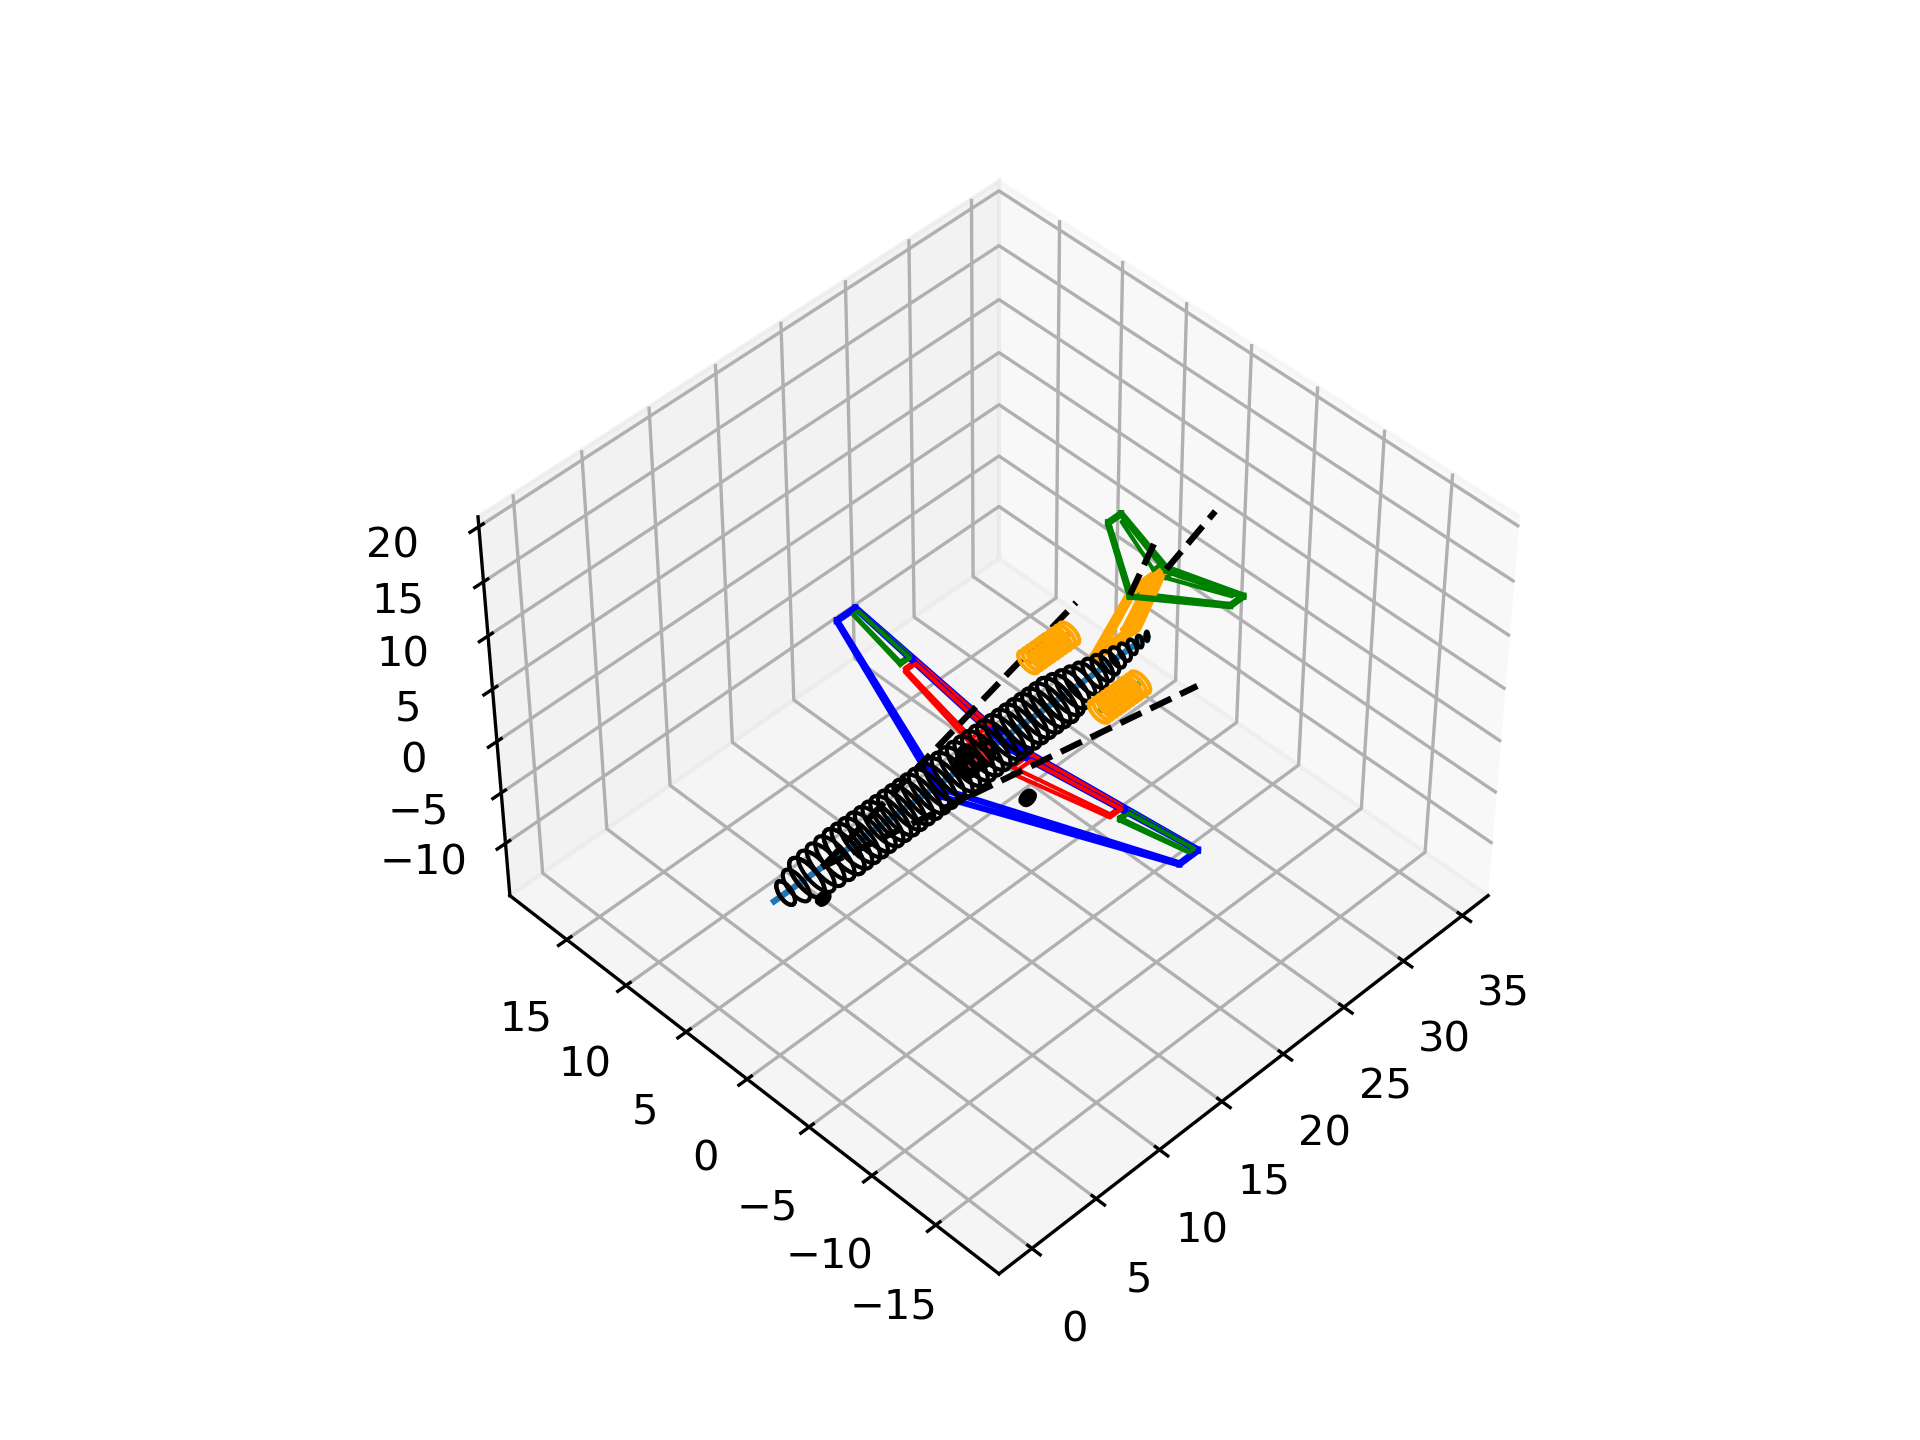
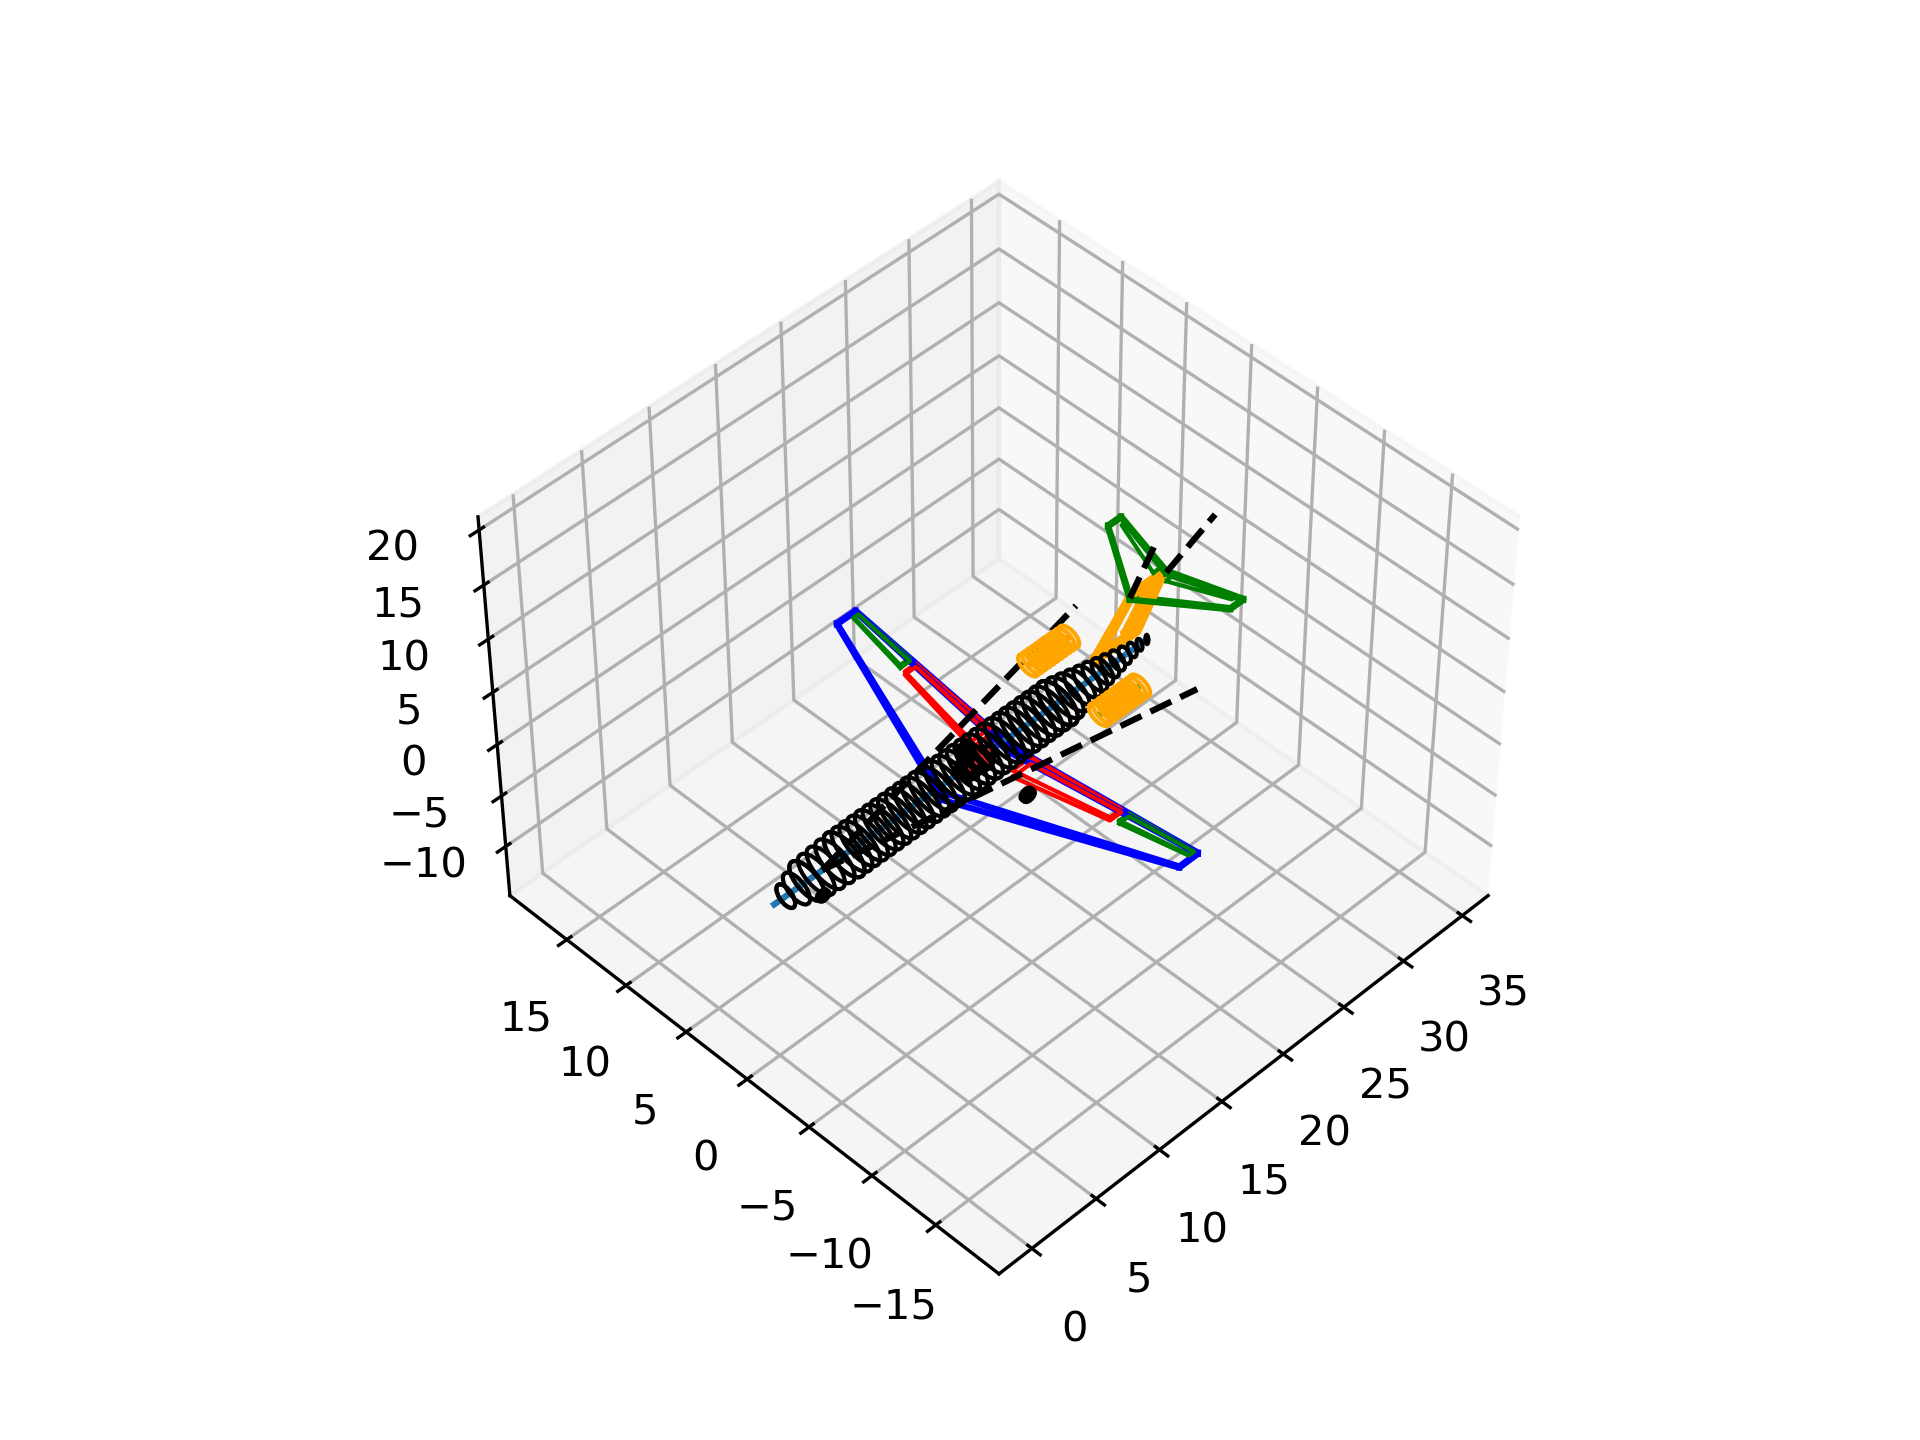
Adição da versão da aeronave com a correção do peso

Changed region(s): [[0.2188, 0.125, 0.7812, 0.625], [0.1875, 0.3438, 0.2188, 0.5]]

diff --git a/designTool.py b/designTool.py
@@ -3415,7 +3415,7 @@ def standard_airplane(name="fokker100"):
             "x_nlg": 3.64,  # Longitudinal position of the nose landing gear [m]
             "x_mlg": 17.10,  # Longitudinal position of the main landing gear [m]
             "y_mlg": 2.52,  # Lateral position of the main landing gear [m]
-            "z_lg": -3.05,  # Vertical position of the landing gear [m]
+            "z_lg": -2.45,  # Vertical position of the landing gear [m]
             "x_tailstrike": 22,  # Longitudinal position of critical tailstrike point [m]
             "z_tailstrike": -0.64,  # Vertical position of critical tailstrike point [m]
             "c_tank_c_w": 0.4,  # Fraction of the wing chord occupied by the fuel tank
@@ -3450,8 +3450,109 @@ def standard_airplane(name="fokker100"):
             "xcg_crew": 2.5,  # Longitudinal position of the Crew center of gravity [m]
             "rho_f": 804,  # Fuel density kg/m3 (This is Jet A-1)
             #"W0_guess": 36740 * gravity,  # Guess for MTOW
-        }
-
+        }        
+    
+    elif name == "F70_XerifeEdition_2":
+        # COMENTÁRIOS
         
-
+        # PROCESSO DE OTIMIZAÇÃO/AJUSTE
+            # Como a planilha "PrestoCabin" utiliza os valores estimados para o alcance e o MTOW
+            # da aeronave, é necessário fazer um processo iterativo com o código/análises
+            
+        # COMENTÁRRIOS SOBRE COMO VALORES DE PARÂMETROS SÃO AJUSTADOS
+            # Na planilha "PrestoCabin", os valores atuais de MTOW e de alcance são de 36000 kg e 3900 km
+            # xcg_payload <- adaptação do valor do Fokker 100 para o nosso comprimento de fuselagem
+            # L_f (Fuselage length [m]) <- Valor retirado da planilha PrestoCabin (ln 372)
+            # D_f (Fuselage diameter [m]) <- Valor retirado da planilha PrestoCabin (ln 136)
+            
+        # ITENS QUE PRECISAM SER CORRIGIDOS OU APRIMORADOS
+            # O comprimento da fuselagem diminuiu em comparação com o F70 original (2,53 m a menos). 
+            # Por conta disso, algumas medidas e posicionamentos longitudinais precisam ser modificados
+            # (posição da asa, posição das empenagens, posição do motor, posição do trem de pouso 
+            # principal, comprimento da nacelle do motor)
+            
+        
+        airplane = {
+            "type": "transport",  # Can be 'transport', 'fighter', or 'general'
+            "S_w": 92,  # Wing area [m2]
+            "AR_w": 8.0,  # Wing aspect ratio
+            "taper_w": 0.28,  # Wing taper ratio
+            "sweep_w": 16.5 * np.pi / 180,  # Wing sweep [rad]
+            "dihedral_w": 3.3 * np.pi / 180,  # Wing dihedral [rad]
+            "xr_w": 12.82,  # Longitudinal position of the wing (with respect to the fuselage nose) [m]
+            "zr_w": -1.01,  # Vertical position of the wing (with respect to the fuselage nose) [m]
+            "tcr_w": 0.140,  # t/c of the root section of the wing
+            "tct_w": 0.075,  # t/c of the tip section of the wing
+            "Cht": 0.78,  # Horizontal tail volume coefficient
+            "Lc_h": 3.7,  # Non-dimensional lever of the horizontal tail (lever/wing_mac)
+            "AR_h": 4.75,  # HT aspect ratio
+            "taper_h": 0.36,  # HT taper ratio
+            "sweep_h": 29.14 * np.pi / 180,  # HT sweep [rad]
+            "dihedral_h": 4.2 * np.pi / 180,  # HT dihedral [rad]
+            "zr_h": 5.2,  # Vertical position of the HT [m]
+            "tcr_h": 0.1,  # t/c of the root section of the HT
+            "tct_h": 0.1,  # t/c of the tip section of the HT
+            "eta_h": 1.0,  # Dynamic pressure factor of the HT
+            "Cvt": 0.05,  # Vertical tail volume coefficient
+            "Lb_v": 0.42,  # Non-dimensional lever of the vertical tail (lever/wing_span)
+            "AR_v": 1.314,  # VT aspect ratio
+            "taper_v": 0.754,  # VT taper ratio
+            "sweep_v": 35.57 * np.pi / 180,  # VT sweep [rad]
+            "zr_v": 3.24/2,  # Vertical position of the VT [m]
+            "tcr_v": 0.1,  # t/c of the root section of the VT
+            "tct_v": 0.1,  # t/c of the tip section of the VT
+            "L_f": 29.27,  # Fuselage length [m] <- Otimizado de acordo com a planilha PrestoCabin (ln 372)
+            "D_f": 3.24,  # Fuselage diameter [m] <- Otimizado de acordo com a planilha PrestoCabin (ln 136)
+            "x_n": 22.5,  # Longitudinal position of the nacelle frontal face [m]
+            "y_n": 2.80,  # Lateral position of the nacelle centerline [m]
+            "z_n": 0.85,  # Vertical position of the nacelle centerline [m]
+            "L_n": 3.27,  # Nacelle length [m]
+            "D_n": 1.64,  # Nacelle diameter [m]
+            "n_engines": 2,  # Number of engines
+            "n_engines_under_wing": 0,  # Number of engines installed under the wing
+            "engine": {
+                "model": "Howe turbofan",  # Check engineTSFC function for options
+                "BPR": 4.9,  # Engine bypass ratio
+                "Cbase": 0.39/ 3600,
+                "weight": 1120*gravity
+            }, # Motor CF34-C5
+            "x_nlg": 3.64,  # Longitudinal position of the nose landing gear [m]
+            "x_mlg": 17.10,  # Longitudinal position of the main landing gear [m]
+            "y_mlg": 2.52,  # Lateral position of the main landing gear [m]
+            "z_lg": -2.45,  # Vertical position of the landing gear [m]
+            "x_tailstrike": 22,  # Longitudinal position of critical tailstrike point [m]
+            "z_tailstrike": -0.64,  # Vertical position of critical tailstrike point [m]
+            "c_tank_c_w": 0.4,  # Fraction of the wing chord occupied by the fuel tank
+            "x_tank_c_w": 0.2,  # Fraction of the wing chord where fuel tank starts
+            "clmax_w": 1.8,  # Maximum lift coefficient of wing airfoil
+            "flap_type": "double slotted",  # Flap type
+            "c_flap_c_wing": 0.30,  # Fraction of the wing chord occupied by flaps
+            "b_flap_b_wing": 0.60,  # Fraction of the wing span occupied by flaps (including fuselage portion)
+            "slat_type": None,  # Slat type
+            "c_slat_c_wing": 0.00,  # Fraction of the wing chord occupied by slats
+            "b_slat_b_wing": 0.00,  # Fraction of the wing span occupied by slats
+            "c_ail_c_wing": 0.27,  # Fraction of the wing chord occupied by aileron
+            "b_ail_b_wing": 0.34,  # Fraction of the wing span occupied by aileron
+            "h_ground": 35.0
+            * ft2m,  # Distance to the ground for ground effect computation [m]
+            "k_exc_drag": 0.03,  # Excrescence drag factor
+            "altitude_takeoff": 0.0,  # Altitude for takeoff computation [m]
+            "distance_takeoff": 1600,  # Required takeoff distance [m]
+            "altitude_landing": 0.0,  # Altitude for landing computation [m]
+            "distance_landing": 1600, # Required landing distance [m] (The actual Fokker100 distance is 1350 m but it is very restrictive compared to the historical regression. Therefore I kept the same TO distance since the aircraft should takeoff and land at the same runway)
+            "MLW_frac": 34400/37527,  # Max Landing Weight / Max Takeoff Weight NAO SEI
+            "altitude_cruise": 11800,  # Cruise altitude [m]
+            "Mach_cruise": 0.76,  # Cruise Mach number
+            "range_cruise": 4100 * 10**3,  # Cruise range [m]
+            "loiter_time": 45 * 60,  # Loiter time [s]
+            "altitude_altcruise": 4572,  # Alternative cruise altitude [m]
+            "Mach_altcruise": 0.4,  # Alternative cruise Mach number
+            "range_altcruise": 200 * nm2m,  # Alternative cruise range [m]
+            "W_payload": (76*97.0688 + 460)*gravity,  # Payload weight [N]
+            "xcg_payload": 12.76,  # Longitudinal position of the Payload center of gravity [m]
+            "W_crew": 408.233 * gravity,  # Crew weight [N]
+            "xcg_crew": 2.5,  # Longitudinal position of the Crew center of gravity [m]
+            "rho_f": 804,  # Fuel density kg/m3 (This is Jet A-1)
+            #"W0_guess": 36740 * gravity,  # Guess for MTOW
+        }
     return airplane

diff --git a/F70_Xerife_Edition_weigths.py b/F70_Xerife_Edition_weigths.py
@@ -8,13 +8,16 @@ import pprint
 
 airplane = dt.standard_airplane("F70_XerifeEdition")
 dt.geometry(airplane)
-
-airplane["range_cruise"] =  4500 * 10**3
-airplane["xr_w"] = 12.82
-airplane["Lc_h"] = 3.7
-airplane["Lb_v"] = 0.42
-airplane["xcg_payload"] = 12.26
-airplane["x_mlg"] = airplane["xr_w"] + 4
+gravity = 9.81
+airplane["W_payload"] = (76*97.0688 + 460)*gravity
+airplane["range_cruise"] = 4100*(10**3)
+airplane["xcg_payload"] = 12.26+.2
+# airplane["range_cruise"] =  4500 * 10**3
+# airplane["xr_w"] = 12.82
+# airplane["Lc_h"] = 3.7
+# airplane["Lb_v"] = 0.42
+# airplane["xcg_payload"] = 12.26
+# airplane["x_mlg"] = airplane["xr_w"] + 4
 
 W0_guess = 5e3 * airplane["S_w"]
 T0_guess = 0.3*W0_guess

diff --git a/hw06.py b/hw06.py
@@ -17,11 +17,14 @@ airplane = dt.standard_airplane("F70_XerifeEdition")
 
 # dt.geometry(airplane)
 # Modify one parameter (if necessary)
-# airplane["range_cruise"] =  4700 * 10**3
-# airplane["xr_w"] = 12.82
+# "W_payload": 76 * 91 * gravity
+airplane["W_payload"] = (76*97.0688 + 460)*gravity
+airplane["range_cruise"] = 4100*(10**3)
+# airplane[ "altitude_cruise"] = 11800
 # airplane["Lc_h"] = 3.7
 # airplane["Lb_v"] = 0.42
-# airplane["xcg_payload"] = 12.26
+airplane["xcg_payload"] = 12.26+0.5
+airplane["W_crew"] = 408.233 * gravity
 # airplane["x_mlg"] = airplane["xr_w"] + 4
 
 # Execute the geometry function from the designTools module (dt)
